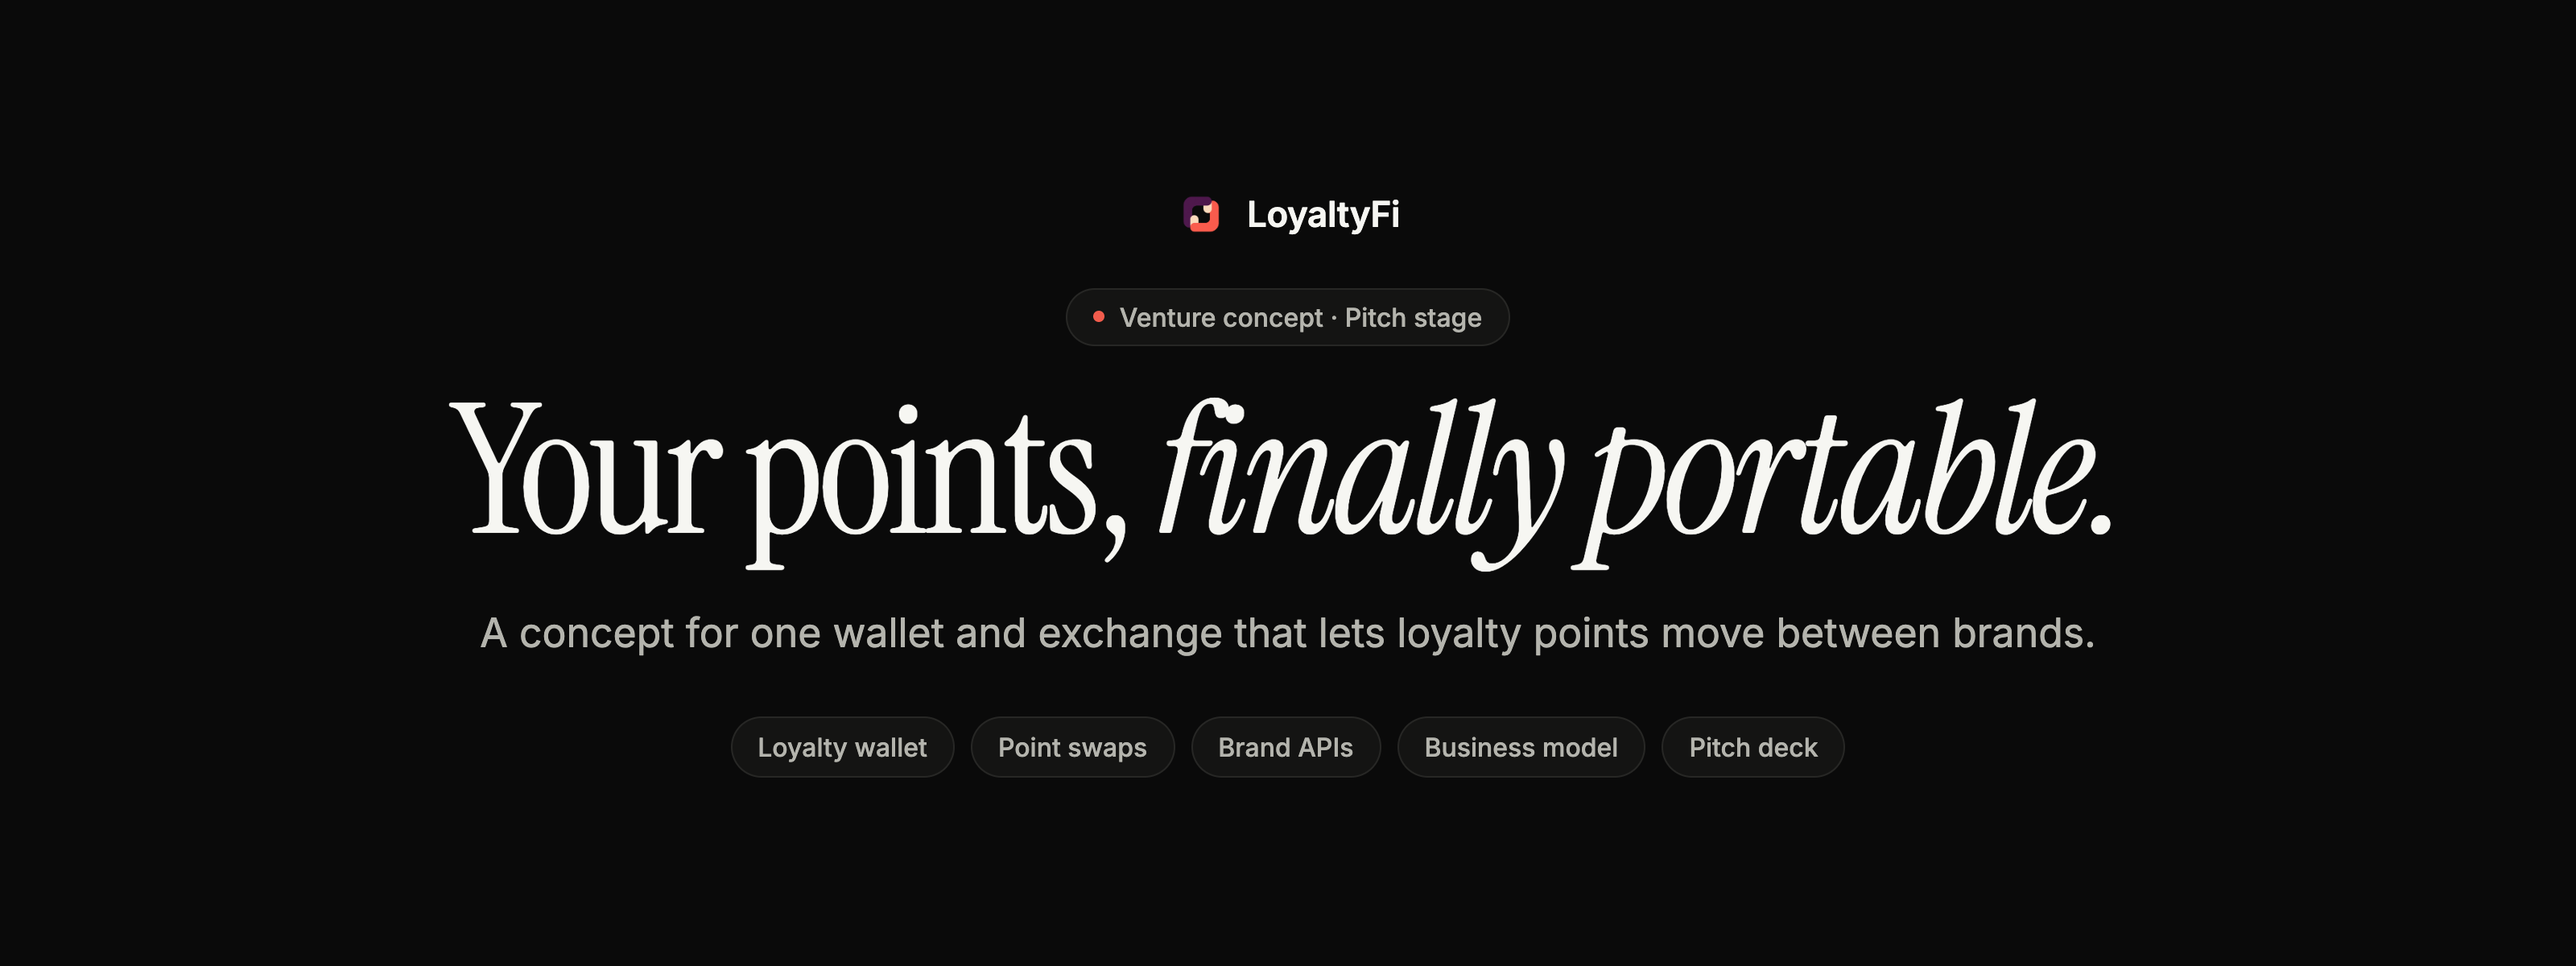
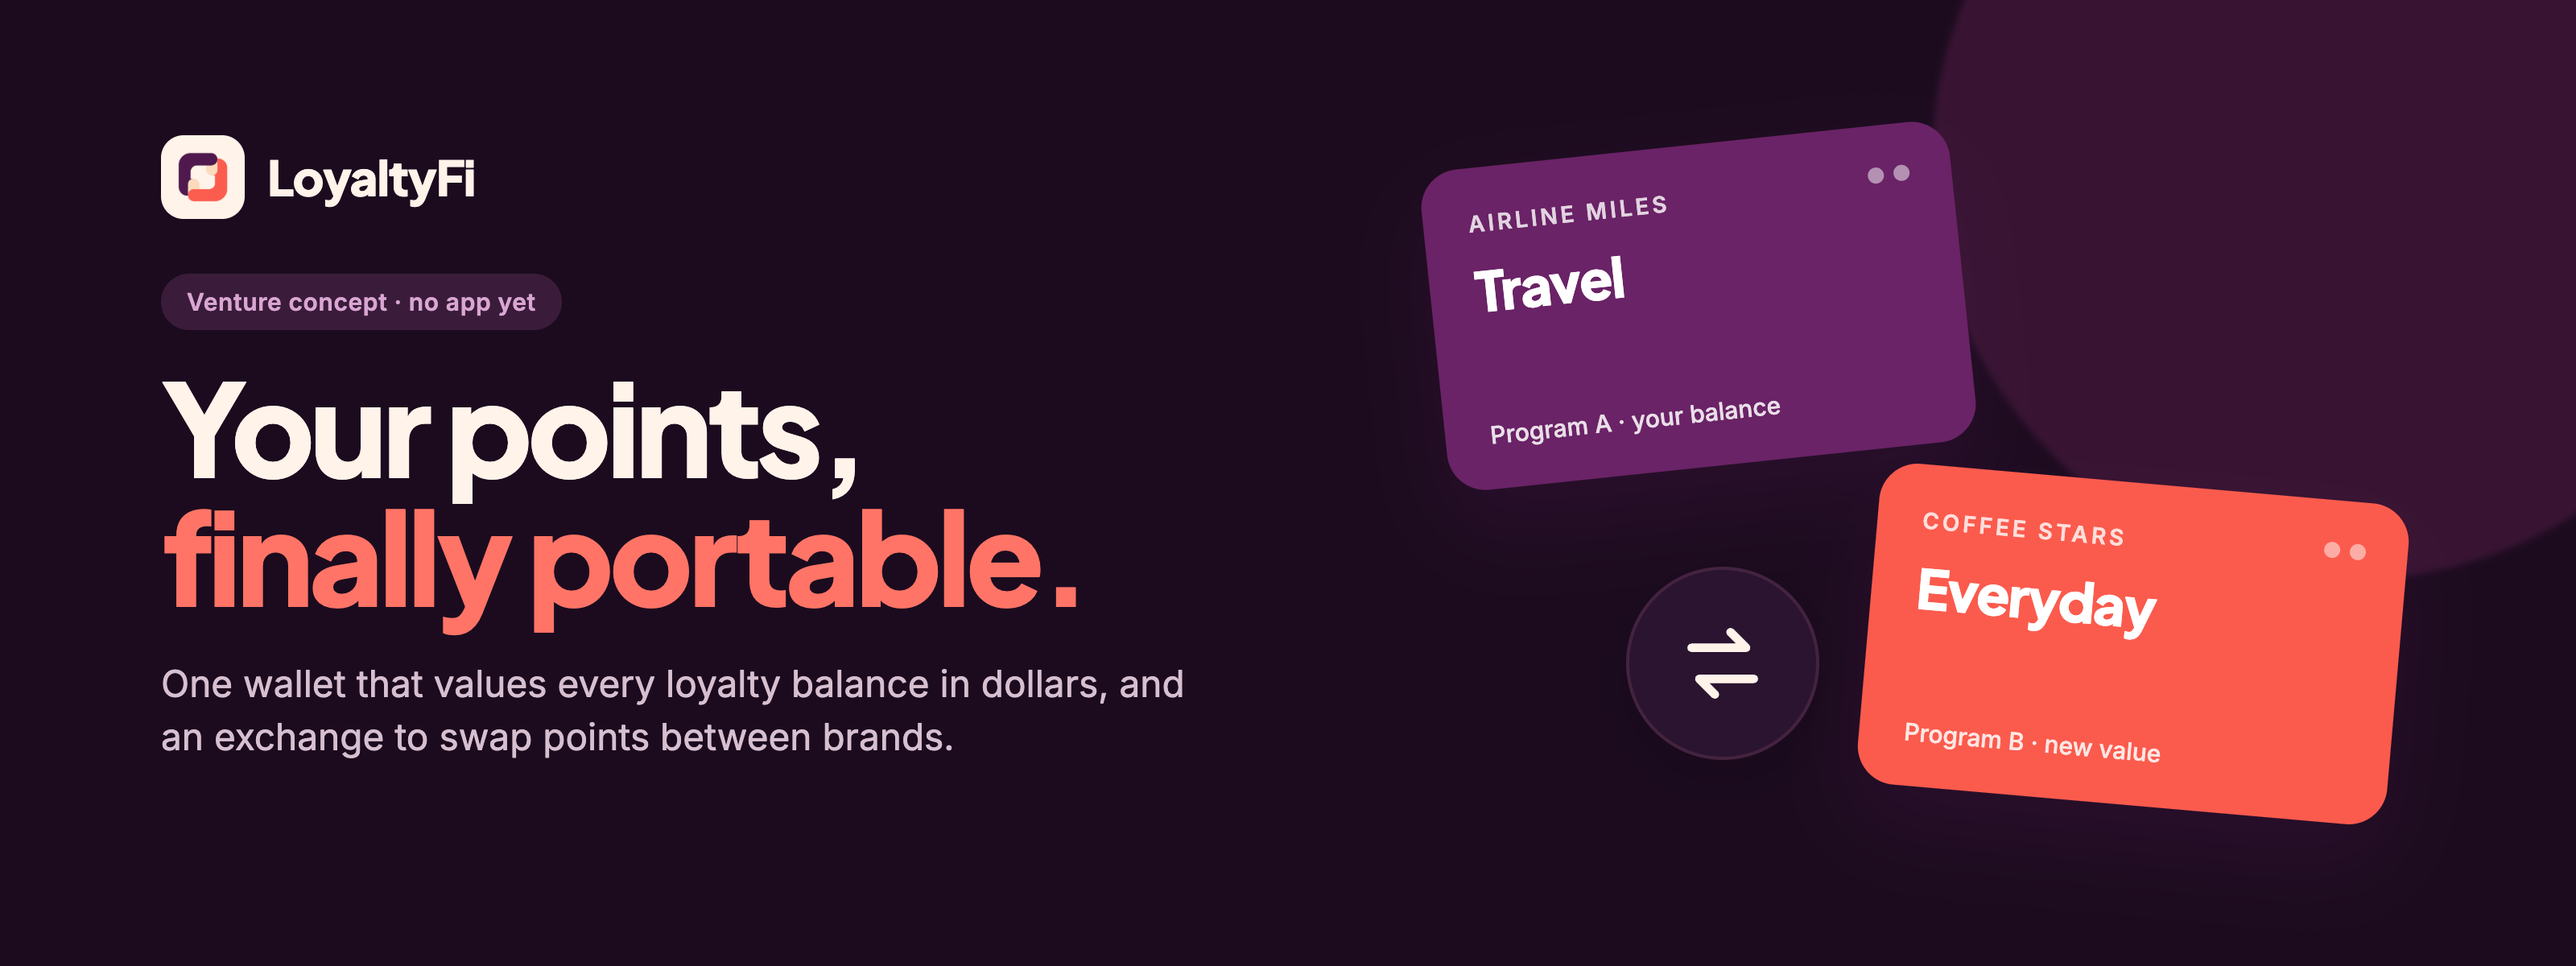
Give the README its own visual identity
Plus Jakarta Sans display with Inter body; logo aubergine #4f194d, coral #fb5b4d and peach #fddbbd with the mockup's #0e1d2d navy; motif: two loyalty cards joined by a swap button. Badges use the same colours. Banner source and re-render notes are in .github/assets/source/.

diff --git a/.github/assets/source/banner.html b/.github/assets/source/banner.html
@@ -1,0 +1,43 @@
+<!doctype html>
+<html><head><meta charset="utf-8">
+<!-- LoyaltyFi README banner. Colors sampled from assets/brand/logo.png (aubergine, coral, peach)
+     and the navy buttons in "UI Mobile User.png". -->
+<link href="https://fonts.googleapis.com/css2?family=Plus+Jakarta+Sans:wght@500;700;800&family=Inter:wght@400;500;600&display=block" rel="stylesheet">
+<style>
+:root{--bg:#fff7f0;--ink:#0e1d2d;--muted:#5d5566;--plum:#4f194d;--coral:#fb5b4d;--peach:#fddbbd;--card:#ffffff;--line:#f0dccb;--chip:#fbe7d6;--blob:#fddbbd;--tile:transparent}
+@media (prefers-color-scheme:dark){:root{--bg:#1c0b1f;--ink:#fff3ea;--muted:#d6bfcf;--plum:#d9a6d3;--coral:#ff7466;--peach:#fddbbd;--card:#2b1430;--line:#43233f;--chip:#3a1c3a;--blob:#5a1f4a;--tile:#fff3ea}}
+*{margin:0;box-sizing:border-box}
+body{width:1600px;height:600px;overflow:hidden;background:var(--bg);font-family:Inter,sans-serif;color:var(--ink);position:relative}
+.blob{position:absolute;border-radius:50%;filter:blur(2px)}
+.left{position:absolute;left:100px;top:84px;width:780px}
+.brand{display:flex;align-items:center;gap:14px;font:800 30px "Plus Jakarta Sans";letter-spacing:-.6px}
+.brand img{width:52px;height:52px;padding:4px;border-radius:14px;background:var(--tile)}
+.pill{display:inline-block;margin-top:34px;padding:8px 16px;border-radius:999px;background:var(--chip);font:600 15px Inter;color:var(--plum);letter-spacing:.3px}
+h1{margin-top:20px;font:800 80px/1.0 "Plus Jakarta Sans";letter-spacing:-3px}
+h1 em{font-style:normal;color:var(--coral)}
+p{margin-top:24px;font:400 23px/1.45 Inter;color:var(--muted);width:660px}
+.stage{position:absolute;right:90px;top:70px;width:620px;height:460px}
+.card{position:absolute;width:330px;height:200px;border-radius:24px;padding:26px 28px;color:#fff;box-shadow:0 24px 50px rgba(79,25,77,.25)}
+.card .k{font:600 14px Inter;letter-spacing:2px;text-transform:uppercase;opacity:.8}
+.card .n{margin-top:12px;font:800 34px "Plus Jakarta Sans";letter-spacing:-1px}
+.card .d{position:absolute;left:28px;bottom:24px;font:500 15px Inter;opacity:.85}
+.card .dots{position:absolute;right:26px;top:26px;display:flex;gap:6px}
+.card .dots i{width:10px;height:10px;border-radius:50%;background:currentColor;opacity:.5}
+.swap{position:absolute;left:120px;top:282px;width:120px;height:120px;border-radius:50%;background:var(--card);border:2px solid var(--line);display:grid;place-items:center;box-shadow:0 12px 30px rgba(0,0,0,.12)}
+</style></head><body>
+<div class="blob" style="width:520px;height:520px;right:-120px;top:-160px;background:var(--blob);opacity:.45"></div>
+<div class="left">
+ <div class="brand"><img src="../../../assets/brand/logo.png" alt="">LoyaltyFi</div>
+ <div class="pill">Venture concept · no app yet</div>
+ <h1>Your points,<br><em>finally portable.</em></h1>
+ <p>One wallet that values every loyalty balance in dollars, and an exchange to swap points between brands.</p>
+</div>
+<div class="stage">
+ <div class="card" style="left:0;top:20px;background:var(--plum);transform:rotate(-6deg);color:#fff">
+    <div class="dots"><i></i><i></i></div><div class="k">Airline miles</div><div class="n">Travel</div><div class="d">Program A · your balance</div></div>
+ <div class="card" style="left:270px;top:230px;background:#fb5b4d;transform:rotate(5deg)">
+  <div class="dots"><i></i><i></i></div><div class="k">Coffee stars</div><div class="n">Everyday</div><div class="d">Program B · new value</div></div>
+ <div class="swap"><svg width="58" height="58" viewBox="0 0 24 24" fill="none" stroke="#0e1d2d" stroke-width="2.2" stroke-linecap="round" stroke-linejoin="round" class="sw"><path d="M4 8h14l-4-4"/><path d="M20 16H6l4 4"/></svg></div>
+</div>
+<style>@media (prefers-color-scheme:dark){.stage .card:first-child{background:#6a2366!important}.sw{stroke:#fff3ea}}</style>
+</body></html>

diff --git a/.github/assets/source/README.md b/.github/assets/source/README.md
@@ -1,0 +1,27 @@
+# Banner source
+
+`banner.html` is the self-contained source of the README banner (`../banner-light.png` and `../banner-dark.png`). One file holds both themes: a `@media (prefers-color-scheme: dark)` block swaps the colours.
+
+## Identity
+
+- **Fonts:** **Plus Jakarta Sans** (display, 800) and **Inter** (body), loaded from Google Fonts.
+- **Colours:** `#4f194d` aubergine, `#fb5b4d` coral and `#fddbbd` peach (sampled from `assets/brand/logo.png`), `#0e1d2d` ink navy (the buttons in `UI Mobile User.png`), `#fff7f0` cream background and `#1c0b1f` dark background.
+- **Motif:** two tilted loyalty cards ("Airline miles" and "Coffee stars", no real brands) joined by a round swap button, echoing the swap screen in the concept mockup.
+- The logo is loaded from `../../../assets/brand/logo.png`; in dark mode it sits on a cream tile so the aubergine stays visible.
+
+## Re-render
+
+From the repository root:
+
+```bash
+export CHROME_PATH="<path to a Chrome or Chromium binary>"
+node render-html.mjs .github/assets/source/banner.html .github/assets/banner-light.png --scheme light
+node render-html.mjs .github/assets/source/banner.html .github/assets/banner-dark.png --scheme dark
+```
+
+`render-html.mjs` is a small Playwright script (not in this repository) that opens the page at 1600 x 600, waits for fonts, and saves a 2x screenshot with the given `prefers-color-scheme`. Any headless browser that screenshots a 1600 x 600 viewport at 2x, once in light and once in dark mode, gives the same result.
+
+## Notes for agents
+
+- Keep the banner honest: no invented numbers, users, partners or results. Status words in the banner must match the README's "Honest status" section.
+- Check both PNGs after rendering for overflow, clipped text and weak contrast.

diff --git a/.github/assets/README.md b/.github/assets/README.md
@@ -4,8 +4,18 @@ Images used by the root `README.md`.
 
 | File | What it is | How it was made |
 | --- | --- | --- |
-| `banner-light.png`, `banner-dark.png` | README banner for light and dark mode | Rendered from an HTML template with headless Chrome (26 October 2026), using `assets/brand/logo.png` |
+| `banner-light.png`, `banner-dark.png` | README banner for light and dark mode | Rendered from [`source/banner.html`](source/banner.html) with headless Chrome (26 October 2026), using `assets/brand/logo.png` |
 
 The README also shows the concept visuals already in the repository root (`UI Mobile User.png`, `Onboarding.png` and the value flywheel). Those are pitch illustrations, not screenshots of working software.
 
 Images here must only show public or synthetic content. Label any concept art or mockup as such where it is used.
+
+## Visual identity
+
+Consumer fintech and rewards apps use crisp geometric sans-serifs, big confident numbers and card shapes. The palette comes straight from the logo so the banner, footer logo and mockup read as one brand.
+
+- **Fonts:** **Plus Jakarta Sans** (display, 800) and **Inter** (body).
+- **Colours:** `#4f194d` aubergine, `#fb5b4d` coral and `#fddbbd` peach (sampled from `assets/brand/logo.png`), `#0e1d2d` ink navy (the buttons in `UI Mobile User.png`), `#fff7f0` cream background and `#1c0b1f` dark background.
+- **Motif:** two tilted loyalty cards ("Airline miles" and "Coffee stars", no real brands) joined by a round swap button, echoing the swap screen in the concept mockup.
+
+The README badges use the same colours. To change the banner, edit [`source/banner.html`](source/banner.html) and follow [`source/README.md`](source/README.md) to re-render both PNGs.

diff --git a/README.md b/README.md
@@ -1,7 +1,7 @@
 <p align="center">
   <picture>
     <source media="(prefers-color-scheme: dark)" srcset=".github/assets/banner-dark.png">
-    <img alt="LoyaltyFi: your points, finally portable. A concept for one wallet and exchange that lets loyalty points move between brands." src=".github/assets/banner-light.png" width="100%">
+    <img alt="LoyaltyFi: your points, finally portable. A venture concept for one wallet and exchange that lets loyalty points move between brands, shown as two loyalty cards with a swap button." src=".github/assets/banner-light.png" width="100%">
   </picture>
 </p>
 
@@ -18,10 +18,10 @@
 </p>
 
 <p align="center">
-  <img alt="Stage: venture concept" src="https://img.shields.io/badge/stage-venture%20concept-6b6b6b?style=flat-square">
-  <img alt="Software: none yet" src="https://img.shields.io/badge/software-none%20yet-6b6b6b?style=flat-square">
-  <img alt="Contents: pitch and research" src="https://img.shields.io/badge/pitch%20%C2%B7%20model%20%C2%B7%20policy-111111?style=flat-square">
-  <img alt="License: none" src="https://img.shields.io/badge/license-none-111111?style=flat-square">
+  <img alt="Stage: venture concept" src="https://img.shields.io/badge/stage-venture%20concept-4f194d?style=flat-square">
+  <img alt="Software: none yet" src="https://img.shields.io/badge/software-none%20yet-fb5b4d?style=flat-square">
+  <img alt="Contents: pitch and research" src="https://img.shields.io/badge/pitch%20%C2%B7%20model%20%C2%B7%20policy-0e1d2d?style=flat-square">
+  <img alt="License: none" src="https://img.shields.io/badge/license-none-0e1d2d?style=flat-square">
 </p>
 
 <p align="center">
